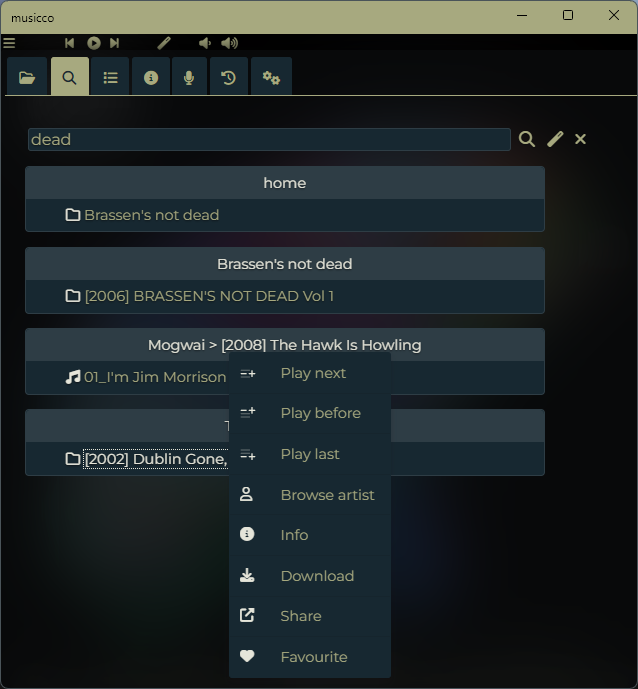
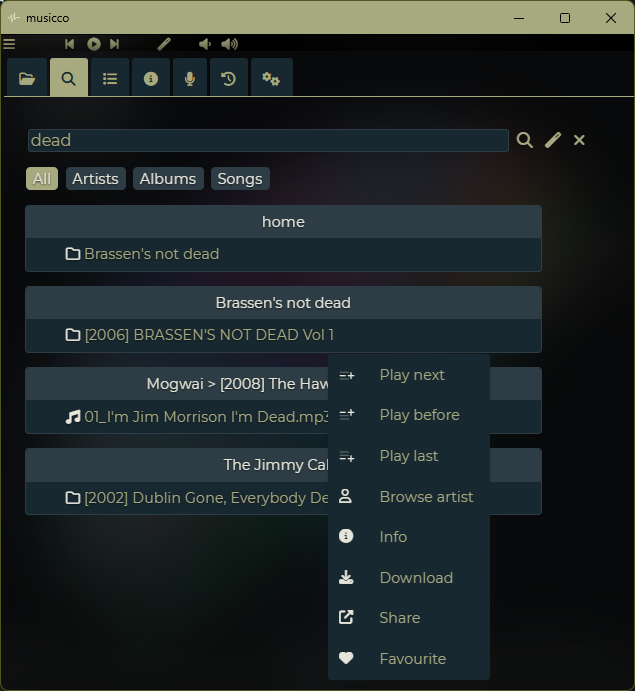
[release] package 3.3.0 release

diff --git a/index.php b/index.php
@@ -6184,7 +6184,7 @@ function refreshdb($quiet) {
 			$aboutString.="<div><br/></div>";
 			$aboutString.="<div class='bold big'><i class='fa-solid fa-cubes-stacked'></i> Release History</div>";
 			$aboutString.="<ul>";
-				$aboutString.="<li class='bold yellow'>3.3.0 (in development)</li>";
+				$aboutString.="<li class='bold yellow'>3.3.0 (3rd January 2025)</li>";
 					$aboutString.="<ul>";
 						$aboutString.="<li>Allow filtering search results by artist, album or song</li>";
 						$aboutString.="<li>Upgraded to fancytree 2.38.4</li>";

diff --git a/README.md b/README.md
@@ -75,7 +75,7 @@ musicco scans your music folder and builds a database of your music collection, 
 
 # 📒 Changelog
 
-## v3.3.0 (in development)
+## v3.3.0 (3rd January 2025)
 * Allow filtering search results by artist, album or song
 * Upgrade to fancytree 2.38.4
 * Upgrade to Montserrat 9.000
